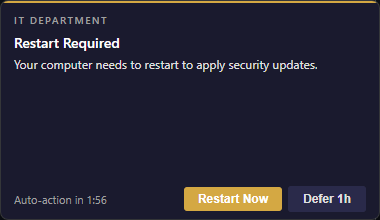
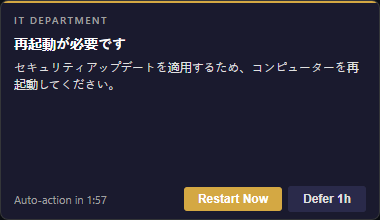
fix: Apply locale in gRPC Notify and UI subprocess paths

diff --git a/internal/server/server.go b/internal/server/server.go
@@ -65,6 +65,7 @@ func (s *Server) Notify(ctx context.Context, req *pb.NotifyRequest) (*pb.NotifyR
 		return &pb.NotifyResponse{ExitCode: 1, Error: err.Error()}, nil
 	}
 	cfg.ApplyDefaults()
+	cfg.ApplyLocale(config.DetectLocale())
 	if err := cfg.Validate(); err != nil {
 		return &pb.NotifyResponse{ExitCode: 1, Error: err.Error()}, nil
 	}

diff --git a/cmd/root.go b/cmd/root.go
@@ -226,6 +226,7 @@ func runServiceUI(notifID string, port int) error {
 		return fmt.Errorf("get ui config: %w", err)
 	}
 	cfg.ApplyDefaults()
+	cfg.ApplyLocale(config.DetectLocale())
 
 	// If deferrals are exhausted or deadline passed, filter out defer buttons.
 	if !deferAllowed {
